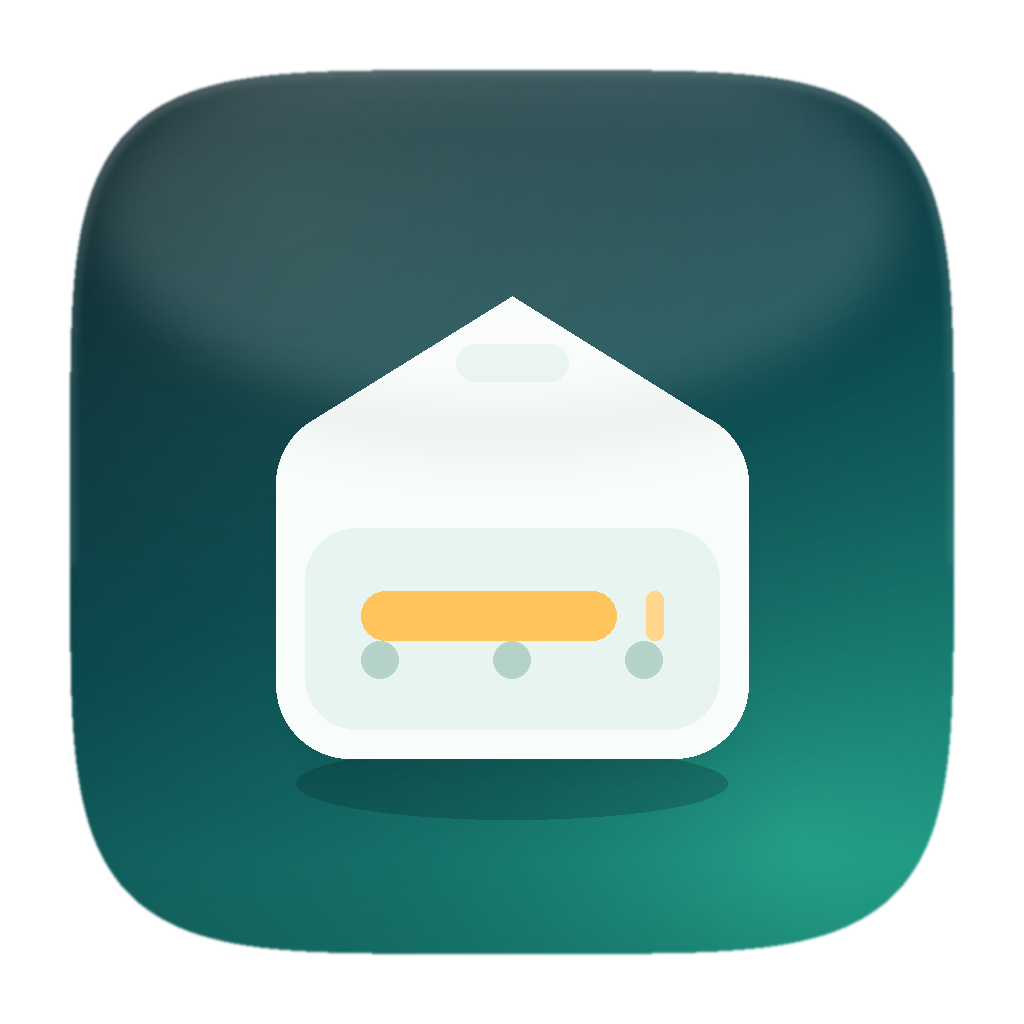
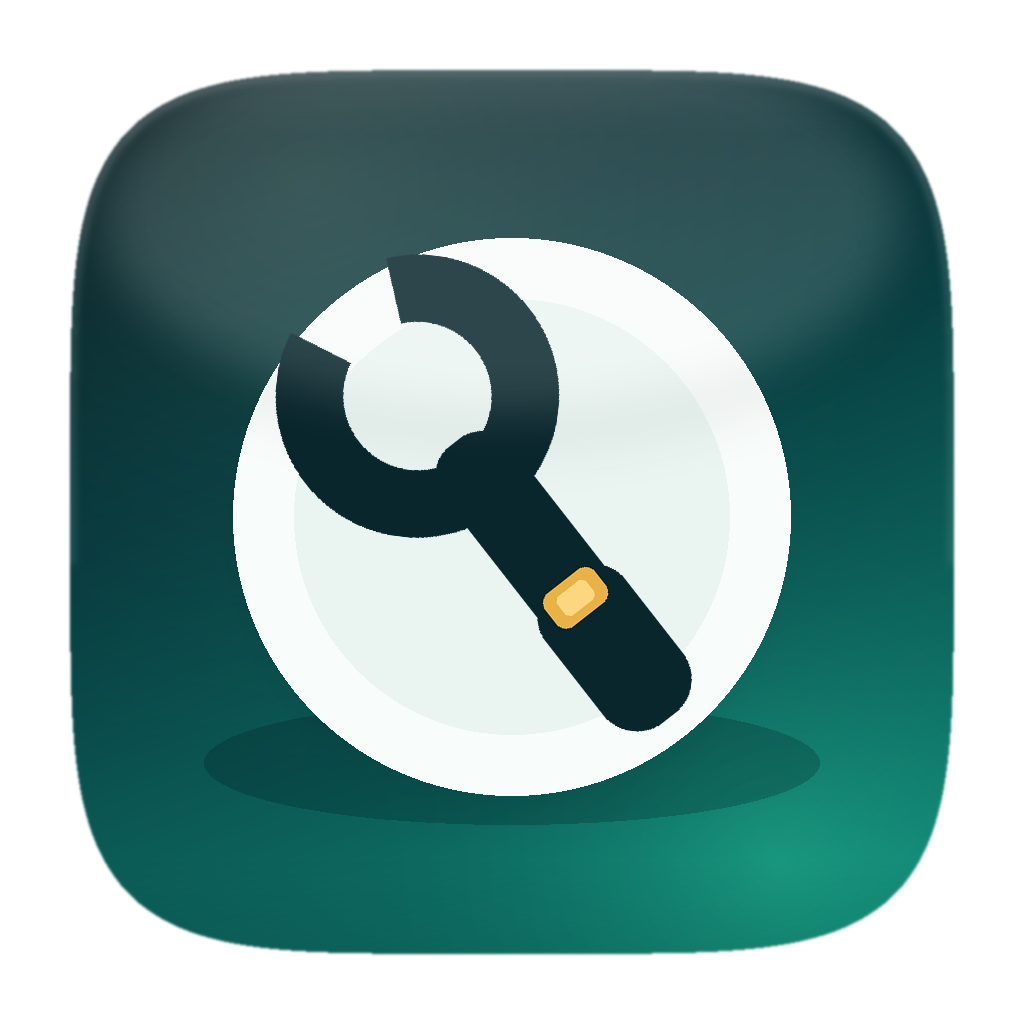
Redesign the SupTools mark as a precision wrench badge.
Replace the ambiguous toolbox silhouette with a clearer open-end wrench on an emerald plate so the Dock and site logo read as a formal utility brand.

Changed region(s): [[0.2188, 0.2188, 0.8125, 0.8125]]

diff --git a/Scripts/generate-app-icon.py b/Scripts/generate-app-icon.py
@@ -1,8 +1,8 @@
 #!/usr/bin/env python3
 """Generate a macOS-style SupTools Dock icon (squircle + soft depth).
 
-Concept: solid tool case with a golden status strip — “超级工具箱”.
-Palette: ink slate → deep emerald (distinct from the old indigo/cyan pulse mark).
+Concept: precision open-end wrench on a soft plate — “超级工具箱”.
+Palette: ink slate → deep emerald, with a restrained gold status accent.
 """
 
 from __future__ import annotations
@@ -10,7 +10,7 @@ from __future__ import annotations
 import math
 from pathlib import Path
 
-from PIL import Image, ImageDraw, ImageFilter
+from PIL import Image, ImageDraw, ImageFilter, ImageChops
 
 
 ROOT = Path(__file__).resolve().parents[1]
@@ -43,107 +43,137 @@ def lerp(a: tuple, b: tuple, t: float) -> tuple:
 
 
 def paint_gradient(size: int) -> Image.Image:
-    """Ink slate → deep emerald, with a soft top-left sheen."""
-    c0 = (8, 18, 28)
-    c1 = (12, 72, 78)
-    c2 = (34, 168, 142)
+    """Deep ink → emerald, formal product-utility look."""
+    c0 = (6, 14, 22)
+    c1 = (8, 58, 62)
+    c2 = (18, 148, 128)
     img = Image.new("RGB", (size, size))
     px = img.load()
     for y in range(size):
         for x in range(size):
-            t = 0.32 * (x / (size - 1)) + 0.68 * (y / (size - 1))
+            t = 0.28 * (x / (size - 1)) + 0.72 * (y / (size - 1))
             t = max(0.0, min(1.0, t))
-            if t < 0.48:
-                c = lerp(c0, c1, t / 0.48)
+            if t < 0.42:
+                c = lerp(c0, c1, t / 0.42)
             else:
-                c = lerp(c1, c2, (t - 0.48) / 0.52)
-            sheen = max(0.0, 1.0 - math.hypot(x / size - 0.28, y / size - 0.20) / 0.72)
-            sheen = (sheen ** 1.9) * 28
-            glow = max(0.0, 1.0 - math.hypot(x / size - 0.78, y / size - 0.82) / 0.48)
-            glow = (glow ** 2.1) * 30
+                c = lerp(c1, c2, (t - 0.42) / 0.58)
+            sheen = max(0.0, 1.0 - math.hypot(x / size - 0.30, y / size - 0.18) / 0.70)
+            sheen = (sheen ** 2.0) * 34
+            glow = max(0.0, 1.0 - math.hypot(x / size - 0.76, y / size - 0.84) / 0.46)
+            glow = (glow ** 2.2) * 36
             px[x, y] = (
-                min(255, int(c[0] + sheen * 0.55 + glow * 0.35)),
-                min(255, int(c[1] + sheen * 0.75 + glow * 0.85)),
+                min(255, int(c[0] + sheen * 0.50 + glow * 0.30)),
+                min(255, int(c[1] + sheen * 0.70 + glow * 0.90)),
                 min(255, int(c[2] + sheen * 0.55 + glow * 0.55)),
             )
     return img
 
 
-def draw_mark(draw: ImageDraw.ImageDraw, size: int) -> None:
-    """Filled tool case + lid + gold status strip (reads clearly at Dock size)."""
-    white = (248, 252, 250, 255)
-    soft = (232, 244, 240, 255)
-    gold = (255, 196, 92, 255)
-    gold_soft = (255, 214, 140, 255)
+def draw_wrench_upright(size: int) -> Image.Image:
+    """Draw a clean open-end wrench pointing up (mask-based), then caller rotates it."""
+    mask = Image.new("L", (size, size), 0)
+    m = ImageDraw.Draw(mask)
 
     cx = size * 0.50
-    body_w = size * 0.46
-    body_h = size * 0.34
-    left = cx - body_w / 2
-    top = size * 0.40
-    right = left + body_w
-    bottom = top + body_h
-    radius = size * 0.072
+    head_cy = size * 0.355
+    head_outer = size * 0.138
+    head_inner = size * 0.072
+    jaw_w = size * 0.062
 
-    # Soft ground shadow under the case
-    shadow = [
-        left + size * 0.02,
-        bottom - size * 0.01,
-        right - size * 0.02,
-        bottom + size * 0.06,
-    ]
-    draw.ellipse(shadow, fill=(0, 20, 30, 55))
-
-    # Case body (solid)
-    draw.rounded_rectangle([left, top, right, bottom], radius=radius, fill=white)
-
-    # Inner well (slightly inset, softer fill)
-    inset = size * 0.028
-    draw.rounded_rectangle(
-        [left + inset, top + body_h * 0.34, right - inset, bottom - inset],
-        radius=radius * 0.7,
-        fill=soft,
+    # Head ring
+    m.ellipse(
+        [cx - head_outer, head_cy - head_outer, cx + head_outer, head_cy + head_outer],
+        fill=255,
+    )
+    m.ellipse(
+        [cx - head_inner, head_cy - head_inner, cx + head_inner, head_cy + head_inner],
+        fill=0,
+    )
+    # Open-end cut (top sector + center slot)
+    m.pieslice(
+        [cx - head_outer - 4, head_cy - head_outer - 4, cx + head_outer + 4, head_cy + head_outer + 4],
+        start=245,
+        end=295,
+        fill=0,
+    )
+    m.rectangle(
+        [cx - jaw_w / 2, head_cy - head_outer - 6, cx + jaw_w / 2, head_cy - head_inner * 0.35],
+        fill=0,
     )
 
-    # Lid (angled open panel)
-    lid_h = size * 0.11
-    lid = [
-        (left + body_w * 0.08, top + size * 0.01),
-        (cx, top - lid_h),
-        (right - body_w * 0.08, top + size * 0.01),
-        (right - body_w * 0.12, top + body_h * 0.22),
-        (left + body_w * 0.12, top + body_h * 0.22),
-    ]
-    draw.polygon(lid, fill=white)
+    # Neck + handle body
+    neck_w = size * 0.082
+    neck_top = head_cy + head_outer * 0.42
+    handle_bot = size * 0.735
+    m.rounded_rectangle(
+        [cx - neck_w / 2, neck_top, cx + neck_w / 2, handle_bot],
+        radius=neck_w * 0.42,
+        fill=255,
+    )
+    # Slightly wider lower grip
+    hw = size * 0.098
+    m.rounded_rectangle(
+        [cx - hw / 2, size * 0.58, cx + hw / 2, handle_bot + size * 0.018],
+        radius=hw * 0.42,
+        fill=255,
+    )
 
-    # Handle notch on lid
-    hx, hy = cx, top - lid_h * 0.42
-    hw, hh = size * 0.055, size * 0.018
-    draw.rounded_rectangle([hx - hw, hy - hh, hx + hw, hy + hh], radius=hh, fill=soft)
+    # Colorize silhouette
+    ink = Image.new("RGBA", (size, size), (8, 38, 44, 255))
+    ink.putalpha(mask)
 
-    # Golden status strip (monitoring accent)
-    strip_y0 = top + body_h * 0.52
-    strip_y1 = strip_y0 + size * 0.048
-    strip_x0 = left + body_w * 0.18
-    strip_x1 = left + body_w * 0.72
-    draw.rounded_rectangle(
-        [strip_x0, strip_y0, strip_x1, strip_y1],
-        radius=size * 0.024,
+    # Gold status chip on handle
+    accent = Image.new("RGBA", (size, size), (0, 0, 0, 0))
+    a = ImageDraw.Draw(accent, "RGBA")
+    gold = (232, 178, 72, 255)
+    gold_hi = (255, 214, 128, 255)
+    sy0 = size * 0.585
+    sy1 = sy0 + size * 0.040
+    a.rounded_rectangle(
+        [cx - size * 0.030, sy0, cx + size * 0.030, sy1],
+        radius=size * 0.012,
         fill=gold,
     )
-    # Short secondary meter
-    draw.rounded_rectangle(
-        [strip_x1 + size * 0.03, strip_y0, right - body_w * 0.18, strip_y1],
-        radius=size * 0.024,
-        fill=gold_soft,
+    a.rounded_rectangle(
+        [cx - size * 0.018, sy0 + size * 0.009, cx + size * 0.018, sy1 - size * 0.009],
+        radius=size * 0.006,
+        fill=gold_hi,
+    )
+    # Only keep gold where wrench body exists
+    ra, ga, ba, aa = accent.split()
+    aa = ImageChops.multiply(aa, mask)
+    accent = Image.merge("RGBA", (ra, ga, ba, aa))
+
+    return Image.alpha_composite(ink, accent)
+
+
+def draw_mark(size: int) -> Image.Image:
+    """White plate + rotated wrench."""
+    layer = Image.new("RGBA", (size, size), (0, 0, 0, 0))
+    d = ImageDraw.Draw(layer, "RGBA")
+
+    white = (248, 252, 250, 255)
+    plate = (234, 245, 241, 255)
+
+    cx = size * 0.50
+    cy = size * 0.505
+
+    # Soft ground shadow
+    d.ellipse(
+        [cx - size * 0.30, cy + size * 0.18, cx + size * 0.30, cy + size * 0.30],
+        fill=(0, 18, 26, 58),
     )
 
-    # Three tool slots / rivets
-    slot_y = top + body_h * 0.72
-    for i, t in enumerate((0.22, 0.50, 0.78)):
-        sx = left + body_w * t
-        r = size * 0.018
-        draw.ellipse([sx - r, slot_y - r, sx + r, slot_y + r], fill=(180, 210, 200, 255))
+    # Elevated plate
+    r = size * 0.272
+    d.ellipse([cx - r, cy - r, cx + r, cy + r], fill=white)
+    rin = r * 0.78
+    d.ellipse([cx - rin, cy - rin, cx + rin, cy + rin], fill=plate)
+
+    wrench = draw_wrench_upright(size)
+    wrench = wrench.rotate(38, resample=Image.Resampling.BICUBIC, center=(cx, cy))
+    layer = Image.alpha_composite(layer, wrench)
+    return layer
 
 
 def add_inner_shadow(base: Image.Image, mask: Image.Image) -> Image.Image:
@@ -152,19 +182,19 @@ def add_inner_shadow(base: Image.Image, mask: Image.Image) -> Image.Image:
     d = ImageDraw.Draw(overlay)
 
     for i in range(170):
-        a = int(70 * (i / 170) ** 1.15)
+        a = int(72 * (i / 170) ** 1.15)
         y = size - 170 + i
-        d.rectangle([0, y, size, y + 1], fill=(2, 16, 22, a))
+        d.rectangle([0, y, size, y + 1], fill=(2, 14, 20, a))
 
     for i in range(140):
-        a = int(48 * (1 - i / 140) ** 1.35)
+        a = int(52 * (1 - i / 140) ** 1.35)
         d.rectangle([0, i, size, i + 1], fill=(255, 255, 255, a))
 
     specular = Image.new("RGBA", base.size, (0, 0, 0, 0))
     sd = ImageDraw.Draw(specular)
     sd.ellipse(
         [size * 0.08, size * 0.00, size * 0.90, size * 0.42],
-        fill=(255, 255, 255, 36),
+        fill=(255, 255, 255, 38),
     )
     specular = specular.filter(ImageFilter.GaussianBlur(radius=30))
     overlay = Image.alpha_composite(overlay, specular)
@@ -177,7 +207,7 @@ def add_inner_shadow(base: Image.Image, mask: Image.Image) -> Image.Image:
     for y in range(size):
         for x in range(size):
             if m[x, y] > 200 and e[x, y] < 160 and y < size * 0.55:
-                rim_px[x, y] = 100
+                rim_px[x, y] = 105
     rim = rim.filter(ImageFilter.GaussianBlur(4))
     white = Image.new("RGBA", base.size, (255, 255, 255, 0))
     white.putalpha(rim)
@@ -191,24 +221,20 @@ def build() -> Image.Image:
     mask = squircle_mask(size, n=4.8, margin=size * 0.068)
 
     fill = paint_gradient(size).convert("RGBA")
-    glyph_layer = Image.new("RGBA", (size, size), (0, 0, 0, 0))
-    draw = ImageDraw.Draw(glyph_layer, "RGBA")
-    draw_mark(draw, size)
+    glyph_layer = draw_mark(size)
 
     g_alpha = glyph_layer.split()[-1]
-    shadow_colored = Image.new("RGBA", (size, size), (0, 24, 30, 0))
-    shadow_colored.putalpha(g_alpha.point(lambda a: int(a * 0.28)))
-    shadow_colored = shadow_colored.filter(ImageFilter.GaussianBlur(radius=18))
+    shadow_colored = Image.new("RGBA", (size, size), (0, 22, 28, 0))
+    shadow_colored.putalpha(g_alpha.point(lambda a: int(a * 0.26)))
+    shadow_colored = shadow_colored.filter(ImageFilter.GaussianBlur(radius=16))
     shadow_canvas = Image.new("RGBA", (size, size), (0, 0, 0, 0))
-    shadow_canvas.paste(shadow_colored, (0, int(size * 0.018)), shadow_colored)
+    shadow_canvas.paste(shadow_colored, (0, int(size * 0.016)), shadow_colored)
 
     canvas = Image.new("RGBA", (size, size), (0, 0, 0, 0))
     canvas.paste(fill, (0, 0))
     canvas = Image.alpha_composite(canvas, shadow_canvas)
     canvas = Image.alpha_composite(canvas, glyph_layer)
     canvas = add_inner_shadow(canvas, mask)
-
-    from PIL import ImageChops
 
     r, g, b, a = canvas.split()
     a = ImageChops.multiply(a, mask)
